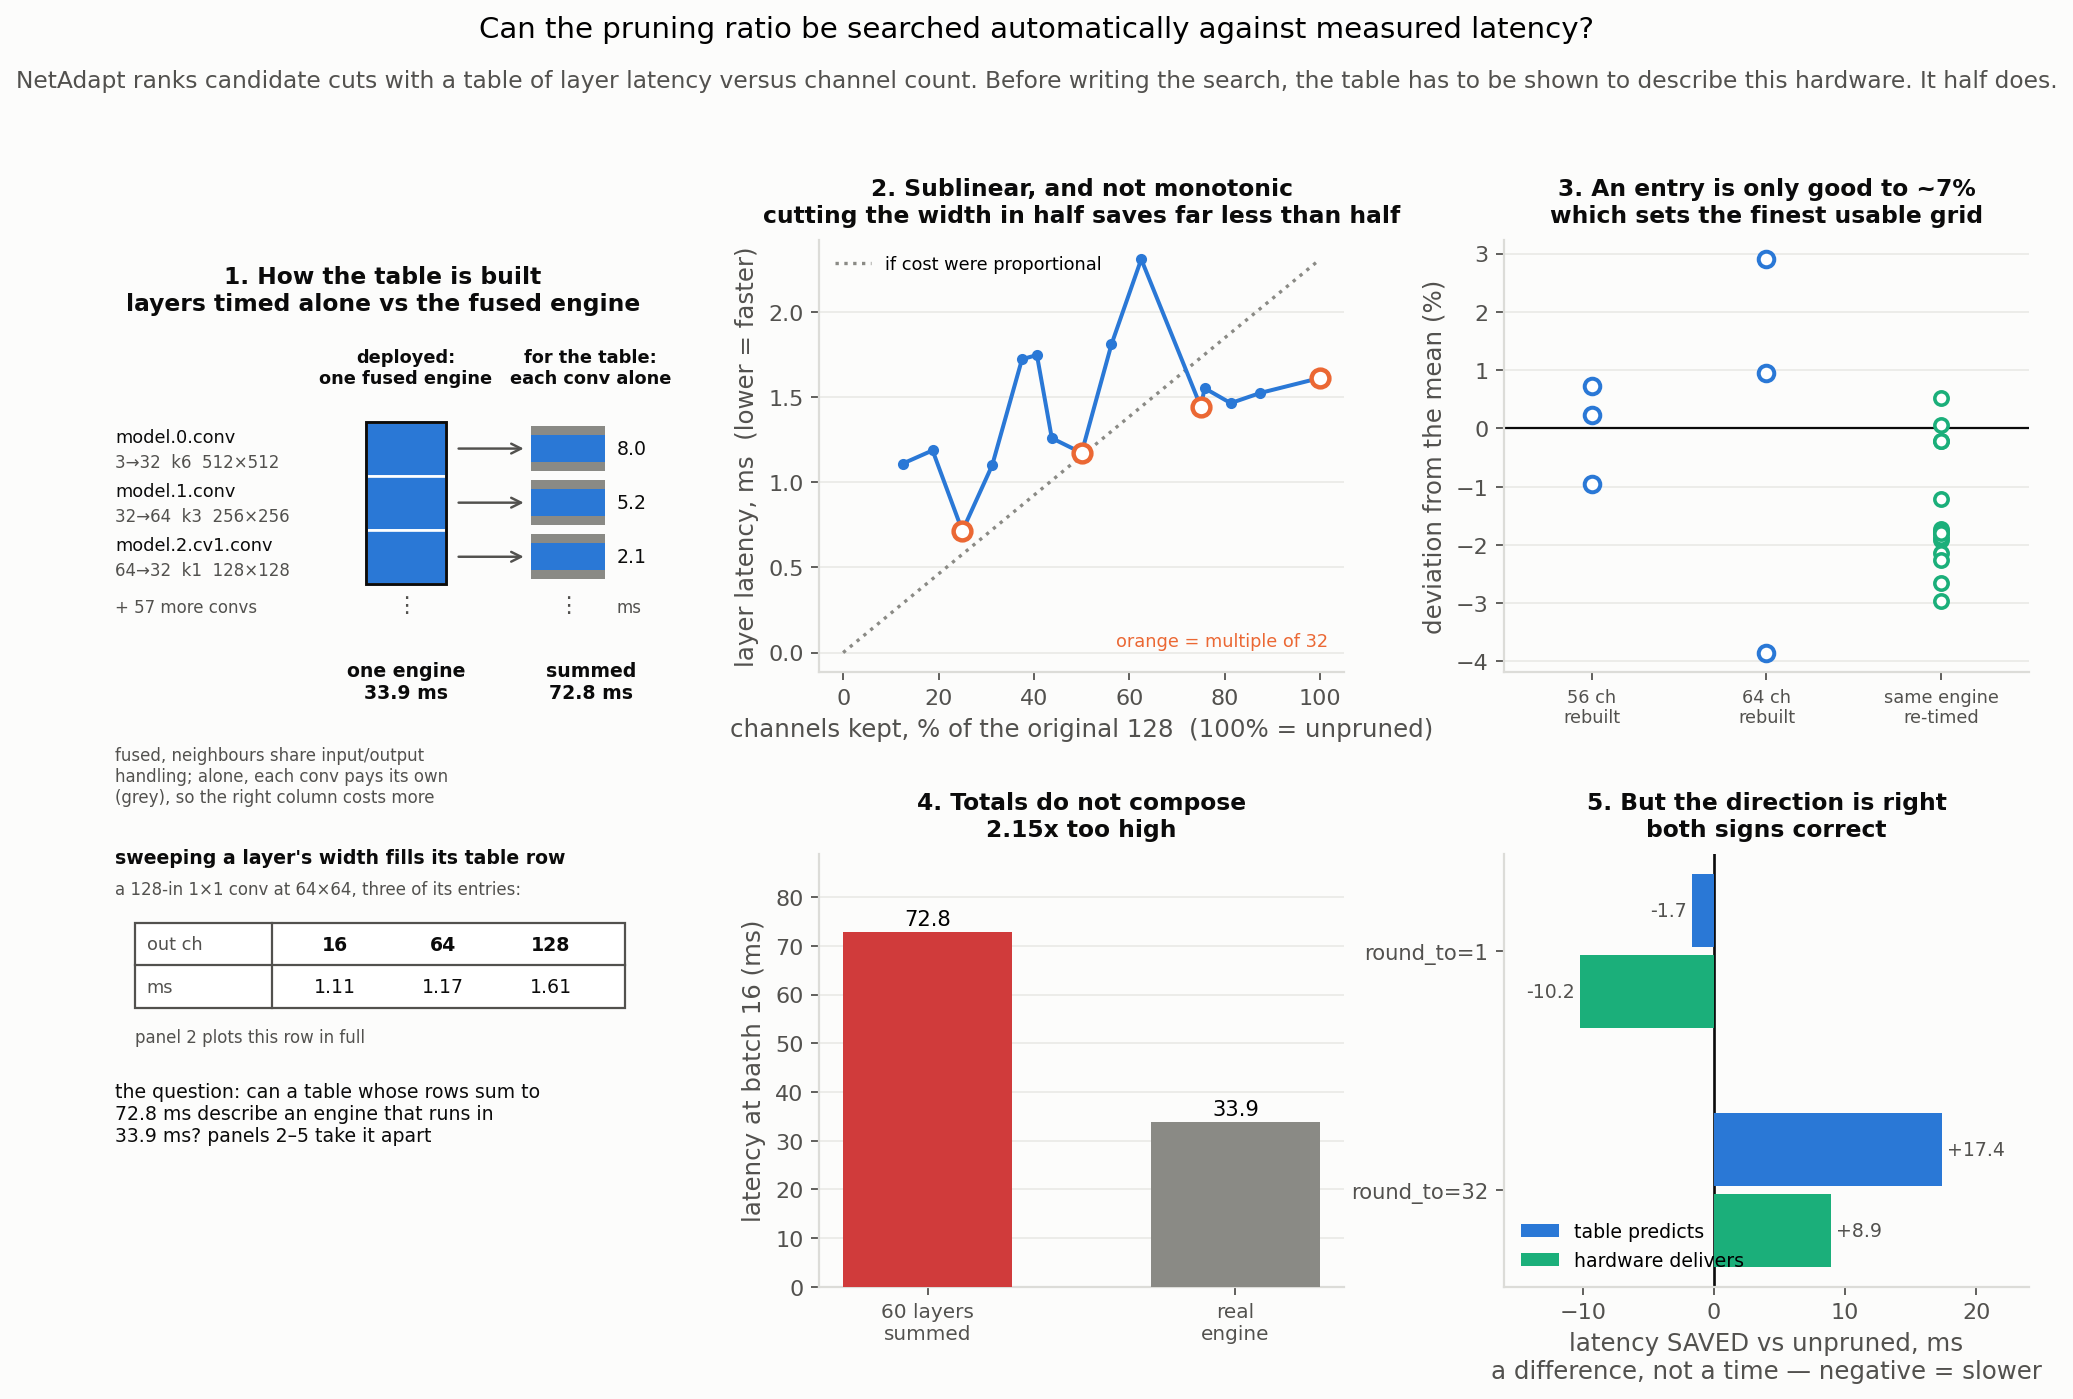
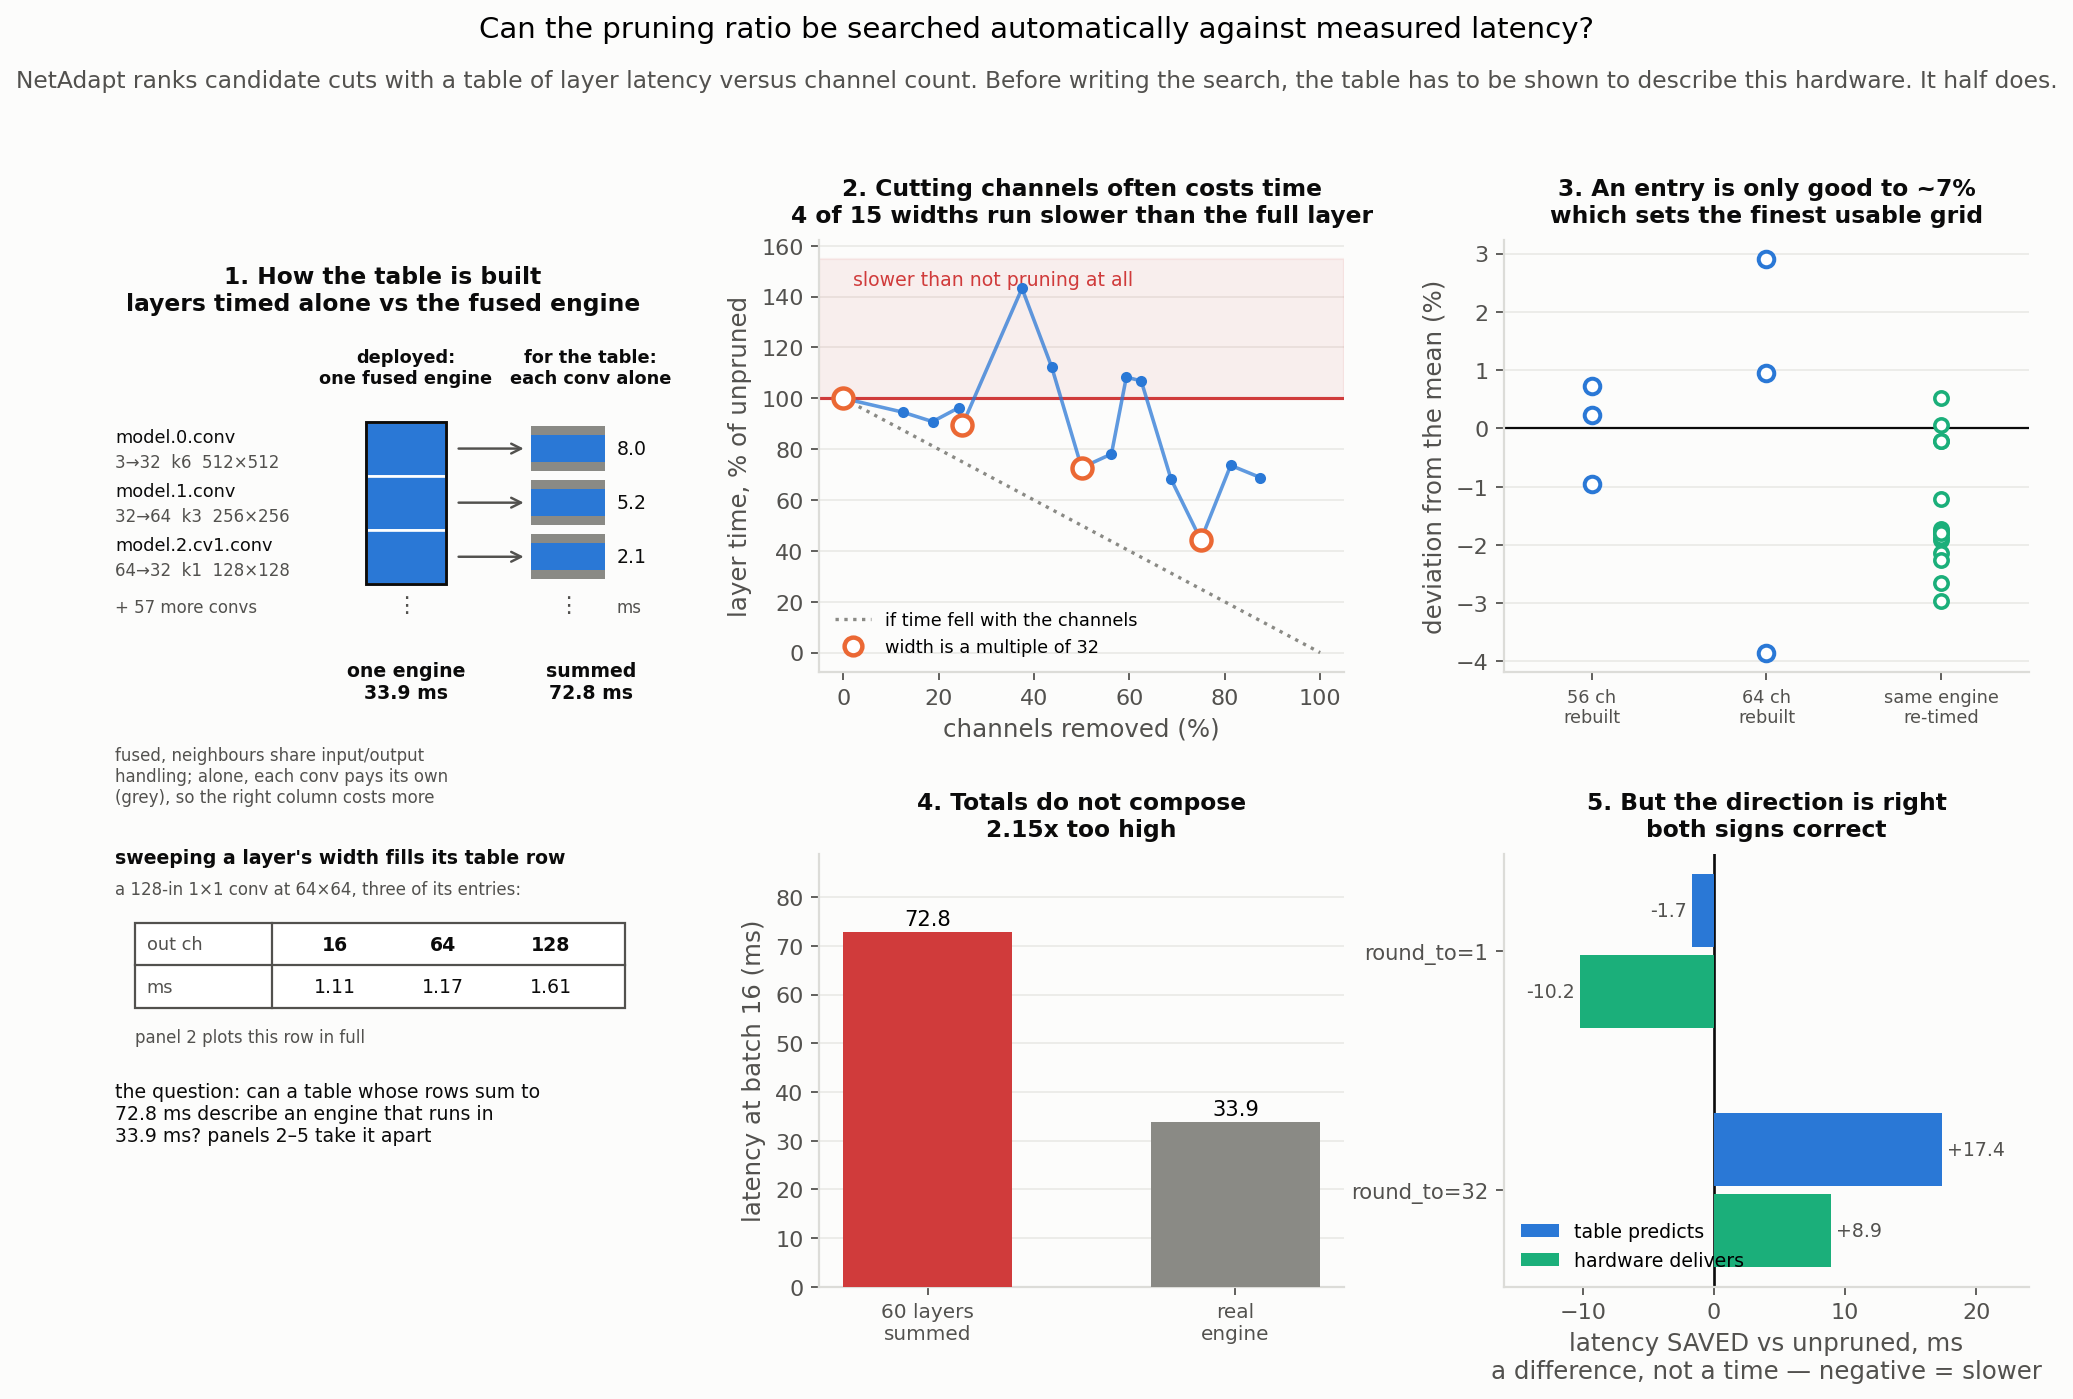
XP6 E9: panel 2 plots channels removed against time as a share of unpruned
Plotted in raw milliseconds against channels kept, the panel was read backwards:
the axis ran opposite to the direction anyone thinks about pruning, and a layer
that costs more after a cut looked unremarkable because 1.7 ms next to 1.6 ms
says nothing on its own.

Now the x-axis counts channels removed and the y-axis is a percentage of the
unpruned layer's own time, with the 100% line drawn and the region above it
shaded. The result the old framing buried: four of the fifteen widths are SLOWER
than not pruning at all, and removing 37.5% of the channels makes the layer 43%
slower. The multiples of 32 fall on a clean sequence (44, 73, 90, 100 percent)
and every ragged width scatters above it.

The section text was correspondingly weak -- it described the curve as merely
sublinear, quoting the one well-behaved pair. It now leads with the widths that
cost time, and says why this panel is the sharpest statement of XP6's theme:
removing arithmetic is not the same as removing time.

diff --git a/analysis/make_figures.py b/analysis/make_figures.py
@@ -1296,32 +1296,46 @@ def fig_xp06e9(records) -> Path | None:
 
     # --- 2. shape -----------------------------------------------------------
     ax = axes[1]
-    # Plotted as a percentage of the layer's original width rather than a raw
-    # channel count, so the axis reads as a pruning ratio and is comparable to
-    # every other ratio on this page. The widest point swept is the full layer.
+    # Two changes from the obvious plot, both because the obvious plot is read
+    # backwards. The x-axis counts channels *removed*, so it runs in the direction
+    # a reader thinks of pruning; and the y-axis is a percentage of the unpruned
+    # layer's own time, so the 100% line means "no faster than not pruning at all"
+    # and every point above it is a cut that cost time instead of saving it. In raw
+    # milliseconds those points look unremarkable.
     full = max(p["out_ch"] for p in shape["points"])
-    chans = [p["out_ch"] for p in shape["points"]]
-    xs = [c / full * 100 for c in chans]
-    ys = [p["ms"] for p in shape["points"]]
-    ax.plot(xs, ys, "-o", color=style.BLUE, markersize=4, linewidth=1.8, zorder=3)
+    base = next(p["ms"] for p in shape["points"] if p["out_ch"] == full)
+    pts = sorted(shape["points"], key=lambda p: -p["out_ch"])
+    xs = [(1 - p["out_ch"] / full) * 100 for p in pts]
+    ys = [p["ms"] / base * 100 for p in pts]
+    chans = [p["out_ch"] for p in pts]
+
+    ax.axhspan(100, max(ys) * 1.08, color=style.RED, alpha=0.07, zorder=1)
+    ax.axhline(100, color=style.RED, linewidth=1.4, zorder=2)
+    ax.text(2, max(ys) * 1.05, "slower than not pruning at all", fontsize=8.5,
+            color=style.RED, ha="left", va="top")
+    ax.plot([0, 100], [100, 0], ":", color=style.MUTED, linewidth=1.5, zorder=2,
+            label="if time fell with the channels")
+    ax.plot(xs, ys, "-", color=style.BLUE, linewidth=1.6, zorder=3, alpha=0.75)
     for c, x, y in zip(chans, xs, ys):
-        if c % 32 == 0:
-            ax.plot([x], [y], "o", color=style.ORANGE, markersize=8,
-                    markerfacecolor="white", markeredgewidth=2, zorder=4)
-    # Proportional cost, anchored at the full width. The gap between this line and
-    # the measured curve is the fixed per-layer overhead.
-    ax.plot([0, 100], [0, max(ys)], ":", color=style.MUTED, linewidth=1.5,
-            zorder=2, label="if cost were proportional")
-    # "kept", not "removed": the sweep sets how wide the layer is left, so the
-    # rightmost point is the unpruned layer and cutting moves leftward. Labelling
-    # this axis "output channels" invites the opposite reading.
-    ax.set_xlabel(f"channels kept, % of the original {full}  (100% = unpruned)")
-    ax.set_ylabel("layer latency, ms  (lower = faster)")
-    ax.set_title("2. Sublinear, and not monotonic\n"
-                 "cutting the width in half saves far less than half", fontsize=10.5, pad=8)
-    ax.legend(fontsize=8, frameon=False, loc="upper left")
-    ax.text(0.97, 0.06, "orange = multiple of 32", transform=ax.transAxes,
-            ha="right", fontsize=8, color=style.ORANGE)
+        aligned = c % 32 == 0
+        ax.plot([x], [y], "o", color=style.ORANGE if aligned else style.BLUE,
+                markersize=9 if aligned else 5,
+                markerfacecolor="white" if aligned else style.BLUE,
+                markeredgewidth=2 if aligned else 0, zorder=4)
+    ax.set_xlabel("channels removed (%)")
+    ax.set_ylabel("layer time, % of unpruned")
+    ax.set_title("2. Cutting channels often costs time\n"
+                 "4 of 15 widths run slower than the full layer", fontsize=10.5, pad=8)
+    # The aligned-width marker goes in the legend rather than floating as a caption:
+    # at this panel size any free corner is already claimed by the proportional line.
+    from matplotlib.lines import Line2D
+    ax.legend(handles=[
+        Line2D([], [], linestyle=":", color=style.MUTED, linewidth=1.5,
+               label="if time fell with the channels"),
+        Line2D([], [], linestyle="none", marker="o", color=style.ORANGE,
+               markerfacecolor="white", markeredgewidth=2, markersize=8,
+               label="width is a multiple of 32")],
+        fontsize=8, frameon=False, loc="lower left")
     style.tidy(ax)
 
     # --- 3. noise -----------------------------------------------------------

diff --git a/experiments/xp06_pruning/README.md b/experiments/xp06_pruning/README.md
@@ -585,12 +585,14 @@ four steps, each able to end it.
    on for all 60. Sweeping one layer's width fills one row of the table. Those rows sum to
    **72.8 ms** describing an engine that runs in **33.9**, and the rest of the figure is whether
    that gap matters.
-2. **Is layer cost informative?** The x-axis is the fraction of the layer's original width it
-   is left **keeping**, so 100% is the unpruned layer and a cut moves leftward. Latency is
-   strongly sublinear: keeping 50% of the channels still costs 73% of the time (1.61 ms down to
-   1.17), so a cut buys far less time than it removes arithmetic. It is also not monotonic —
-   keeping 50% is *faster* than keeping 41%, and 25% faster than 19% — which is E3's tiling
-   effect visible inside a single layer.
+2. **Is layer cost informative?** Barely, and not in the direction anyone expects. Removing half
+   this layer's channels leaves it costing **73%** of its original time, not 50% — and **four of
+   the fifteen widths are slower than not pruning at all**. Removing 37.5% of the channels makes
+   the layer **43% slower**. The clean sequence runs through the multiples of 32 (44%, 73%, 90%,
+   100% of the original time); every ragged width scatters above it. This is
+   [E3's](#e3-regular-channel-widths-recover-the-missing-speed) tiling effect visible inside a
+   single layer: a width that spills past a tile boundary pays for a whole extra tile that runs
+   mostly empty.
 3. **How good is one entry?** Rebuilding the same layer moves it up to **7%**. The search ranks
    candidates whose predicted savings differ by less than that, so this number sets the finest
    width grid worth searching. Merely re-timing an already-built engine moves it 3%.
@@ -604,6 +606,11 @@ four steps, each able to end it.
 **Panels 4 and 5 disagree on purpose.** NetAdapt never uses absolute latency, only the difference
 a cut makes, so a per-layer overhead that does not change with width cancels out. A total that is
 2.15x wrong is survivable. A wrong direction would not be, and the direction is right.
+
+**Removing arithmetic is not the same as removing time.** Panel 2 is the sharpest statement of
+XP6's recurring theme this page has: on this hardware a layer's cost is dominated by how its
+width lands against the kernel's tiling, not by how much arithmetic it contains. Cutting channels
+is as likely to cost time as to save it unless the surviving width is chosen deliberately.
 
 **The conclusion is that the table works at the wrong scale.** It correctly ranks whole networks
 — it knows that ragged widths make a *smaller* model slower, which no parameter count or MAC
